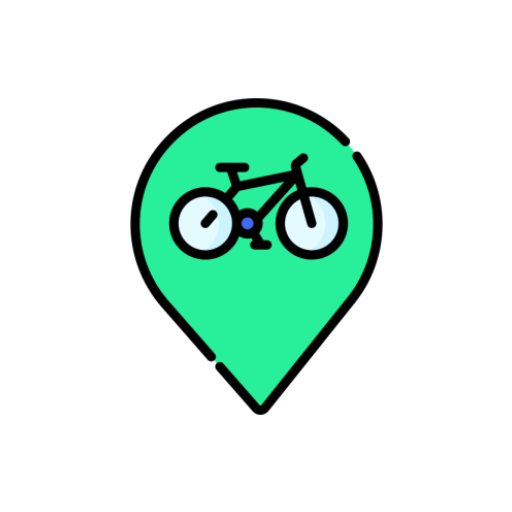
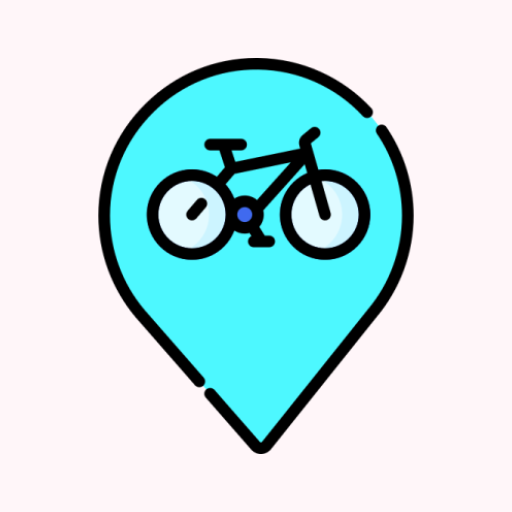
마커 컬러 조합 변경 및 서버 장애로 인한 프로젝트 파일 복구

diff --git a/app/src/main/java/com/example/nubijaapp/MainActivity.kt b/app/src/main/java/com/example/nubijaapp/MainActivity.kt
@@ -8,7 +8,6 @@ import android.os.Vibrator
 import android.util.Log
 import android.widget.Toast
 import androidx.appcompat.app.AppCompatActivity
-import com.example.nubijaapp.R.id.info
 import com.example.nubijaapp.R.id.menu_bike
 import com.google.android.material.bottomnavigation.BottomNavigationView
 import com.naver.maps.geometry.LatLng
@@ -21,7 +20,6 @@ import com.naver.maps.map.overlay.Marker
 import com.naver.maps.map.overlay.Overlay
 import com.naver.maps.map.overlay.OverlayImage
 import com.naver.maps.map.util.FusedLocationSource
-import com.naver.maps.map.util.MarkerIcons
 import org.json.JSONObject
 
 
@@ -64,7 +62,7 @@ class MainActivity : AppCompatActivity(), OnMapReadyCallback {
 
         //FindViewById 로 Id값을 불러온후
         //Id값의 옵션에 접근
-        val bottom_nav : com.google.android.material.bottomnavigation.BottomNavigationView = findViewById(R.id.bottom_nav)
+        val bottom_nav : BottomNavigationView = findViewById(R.id.bottom_nav)
         bottom_nav.setOnNavigationItemSelectedListener(onBottomNavItemSelectedListener)
 
 
@@ -237,7 +235,7 @@ class MainActivity : AppCompatActivity(), OnMapReadyCallback {
                  val marker = Marker()
 
                  marker.position = LatLng(bikestations.lat, bikestations.lng)
-                 marker.icon = OverlayImage.fromResource(R.drawable.ic_marker_green)
+                 marker.icon = OverlayImage.fromResource(R.drawable.ic_bike_green)
                  marker.map = naverMap
 
                  // 마커 테그로 고유의 ID 부여
@@ -263,18 +261,18 @@ class MainActivity : AppCompatActivity(), OnMapReadyCallback {
 
         // 마커 초기화
         for (marker in nubijaMarkerMap.values) {
-            marker.icon = OverlayImage.fromResource(R.drawable.ic_marker_green)
+            marker.icon = OverlayImage.fromResource(R.drawable.ic_bike_green)
         }
 
         val marker = overlay as Marker
 
         //Info Window 가 존재 하면 닫고, 존재 하지 않으면 열기
         if (marker.hasInfoWindow()) {
-            marker.icon = OverlayImage.fromResource(R.drawable.ic_marker_green)
+            marker.icon = OverlayImage.fromResource(R.drawable.ic_bike_green)
             infoWindow.close()
         }
         else {
-            marker.icon = OverlayImage.fromResource(R.drawable.ic_marker_blue)
+            marker.icon = OverlayImage.fromResource(R.drawable.ic_bike_blue)
             infoWindow.open(marker)
         }
 
@@ -287,7 +285,7 @@ class MainActivity : AppCompatActivity(), OnMapReadyCallback {
     private fun resetNubijaMarkerList(){
         if (nubijaMarkerMap.isEmpty() ) {
             for (marker in nubijaMarkerMap.values) {
-                marker.icon = OverlayImage.fromResource(R.drawable.ic_marker_green)
+                marker.icon = OverlayImage.fromResource(R.drawable.ic_bike_green)
                 marker.map = null
             }
         }
@@ -297,7 +295,7 @@ class MainActivity : AppCompatActivity(), OnMapReadyCallback {
     // 지도에서 마커 없앨때 사용
     private fun clearMarker() {
         for (marker in nubijaMarkerMap.values) {
-            marker.icon = OverlayImage.fromResource(R.drawable.ic_marker_green)
+            marker.icon = OverlayImage.fromResource(R.drawable.ic_bike_green)
             marker.map = null
         }
     }
@@ -326,7 +324,7 @@ class MainActivity : AppCompatActivity(), OnMapReadyCallback {
 
                 for (station in result) {
                     if (tag.toInt() == station.tmid) {
-                        return station.name
+                        return "${station.name}\n대여가능:0\n반납가능:0"
                     }
                 }
                 return "load fail"

diff --git a/app/src/main/java/com/example/nubijaapp/BikeStation.kt b/app/src/main/java/com/example/nubijaapp/BikeStation.kt
@@ -4,6 +4,6 @@ data class BikeStation(
         var name: String, var lat: Double, var lng: Double, var tmid: Int
 )
 
-data class BikeStationInfo(
-        var Vno:Int, var Emptycnt:Int, var Parkcnt:Int
+data class BikeStationRT(
+        var vno:Int, var park:Int, var empty:Int
 )
